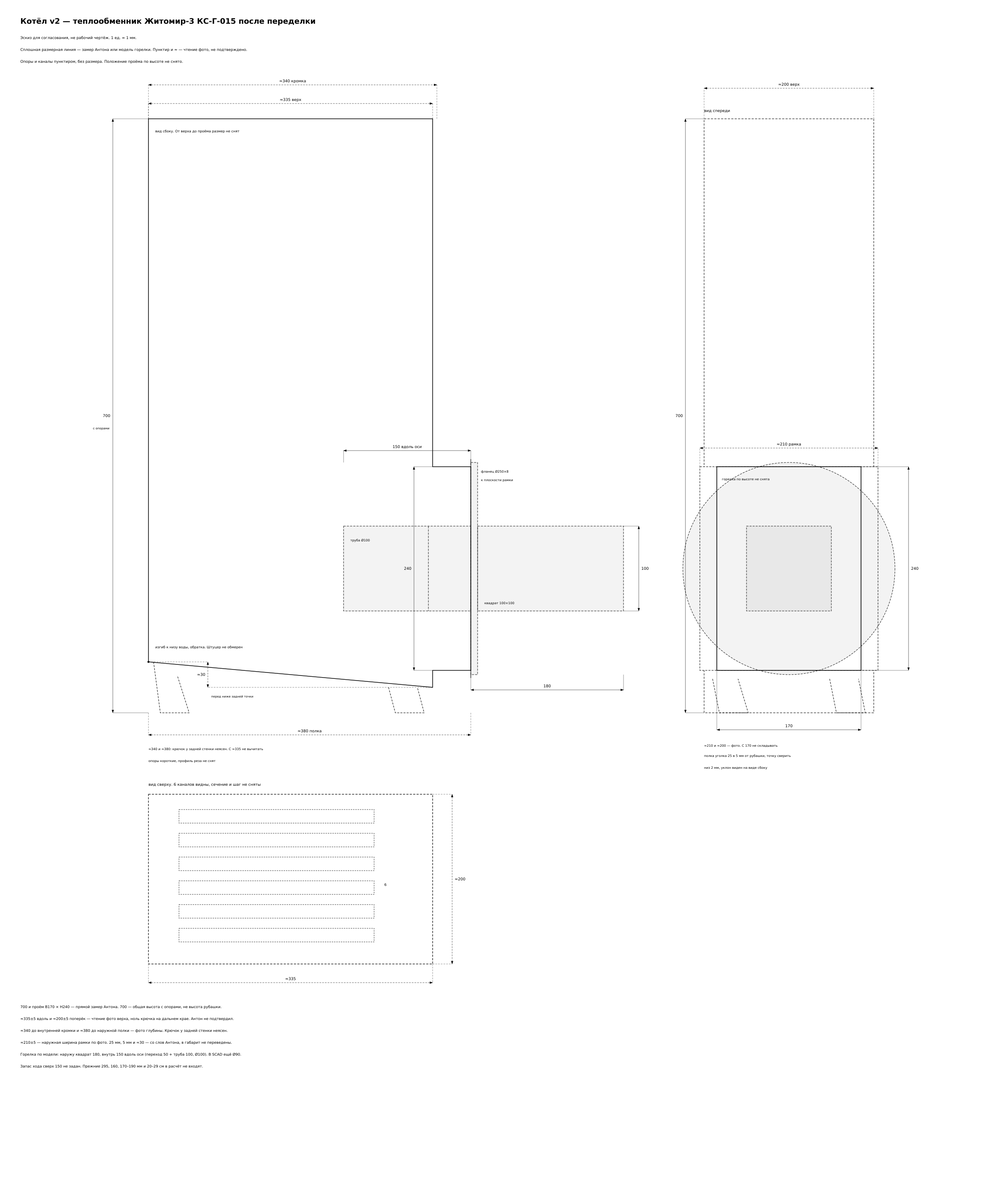
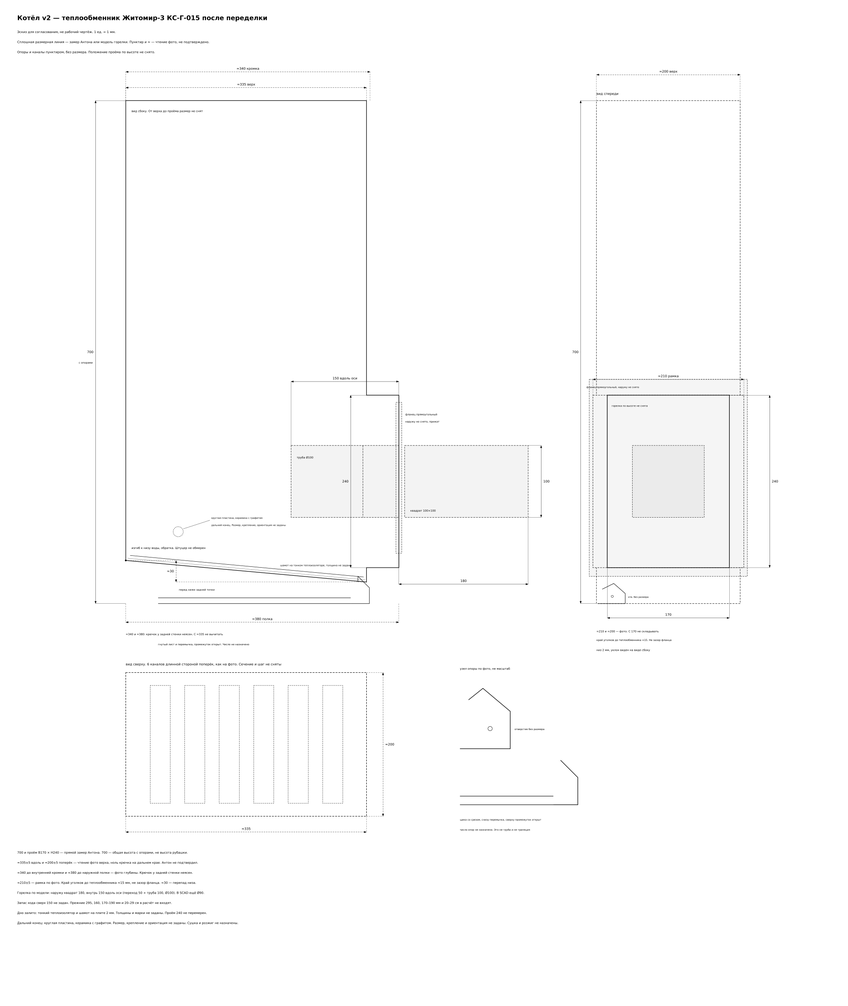
Котёл v2: опоры по фото, прямоугольный фланец, шамот и пластина.

diff --git a/blueprints/burner/README.md b/blueprints/burner/README.md
@@ -105,9 +105,11 @@
 
 Актуальный вид переда: [фото](./photos/котел-перед.jpg), [аннотация SVG](./photos/котел-перед.svg), [PNG](./photos/котел-перед.png), [PDF](./photos/котел-перед.pdf). Это вставленная горелка под углом, не обмер. Два передних кадра без прижимов, рабочая ориентация: [сторона а](./photos/котел-сборка-без-прижимов-а.jpg), [сторона б](./photos/котел-сборка-без-прижимов-б.jpg). Это раньше крупного кадра с прижимами. Прежние фото: [котел-1](./photos/котел-1.jpg), [котел-2](./photos/котел-2.jpg). Таблица рулетки: [обмеры-котла-v2.md](./обмеры-котла-v2.md). Эскиз вида сбоку в стиле размерного листа горелки: [котел-v2-эскиз.svg](./котел-v2-эскиз.svg), превью [PNG](./котел-v2-эскиз.png). Горелка пунктиром в масштабе модели, фланец на плоскости рамки. На эскизе в масштабе общая высота 700 мм и проём в свету 170×240 мм. Глубина и верх только со знаком ≈. Это не рабочий чертёж. Лист [котел-житомир-015.svg](./котел-житомир-015.svg) и [котел-каркас-контур.svg](./photos/котел-каркас-контур.svg) устарели: корпус там отрывался от каркаса, масштаб горелки был другой. Это не рабочие чертежи. Замеры в тексте ниже остаются заметками, на кадр не наложены. Промежуточная сварка каркаса, теплообменник перевёрнут: [фото](./photos/котел-каркас-перевернут.jpg), [аннотация](./photos/котел-каркас-перевернут.svg), [та же фотография в рабочей ориентации](./photos/котел-каркас-рабочая.jpg), [контур видимого](./photos/котел-каркас-контур.svg). Это не сборка с горелкой. Струбцина и стол не части котла.
 
-Крышка **2 мм**: задний изгиб оригинала, сразу перед опорами, приварен к самой нижней части водяной рубашки, где вход холодной воды. Передняя часть ниже этого изгиба примерно на **30 мм** (со слов Антона). Длина ската не снята, угол не строится. Боковины приварены к рубашке. Рама проёма — уголок **25 мм**, в свету **170×240**. Низ и зад усилены тем же уголком. Ножки родные, спилены под углом, котёл стоит ровно. Передний проём в свету: **B = 170 мм**, **H = 240 мм** (прямой замер Антона), это ширина внутренней части. Общая высота с опорами **700 мм**, по фото ножек, не высота одной рубашки. По фото и не подтверждено Антоном: верх ≈335±5 вдоль и ≈200±5 поперёк; глубина ≈340 до внутренней кромки и ≈380 до наружной полки (крючок сзади неясен); наружная рамка ≈210±5. Эти числа не вычитать. Прежние 295 мм, 170–190 мм и 20–29 см — ошибка шкалы. Полки наружу: верх вверх, низ вниз, бока в стороны. Размер уголка этого проёма не снят. Полка уголка **25 мм** стоит в **5 мм** от теплообменника. От какой грани полки и от какой поверхности рубашки меряны эти 5 мм, не сказано: на чертеже точка отсчёта помечена как требующая сверки. В ширину или высоту корпуса 25 мм и 5 мм не переводятся. Номер уголка переднего проёма по-прежнему не снят. Для рабочего размерного чертежа данных не хватает.
+Крышка **2 мм**: задний изгиб оригинала, сразу перед опорами, приварен к самой нижней части водяной рубашки, где вход холодной воды. Передняя часть ниже этого изгиба примерно на **30 мм** (со слов Антона). Длина ската не снята, угол не строится. Боковины приварены к рубашке. Рама проёма — уголок **25 мм**, в свету **170×240**. Низ и зад усилены тем же уголком. Ножки родные, спилены под углом, котёл стоит ровно. Передний проём в свету: **B = 170 мм**, **H = 240 мм** (прямой замер Антона), это ширина внутренней части. Общая высота с опорами **700 мм**, по фото ножек, не высота одной рубашки. По фото и не подтверждено Антоном: верх ≈335±5 вдоль и ≈200±5 поперёк; глубина ≈340 до внутренней кромки и ≈380 до наружной полки (крючок сзади неясен); наружная рамка ≈210±5. Эти числа не вычитать. Прежние 295 мм, 170–190 мм и 20–29 см — ошибка шкалы. Полки наружу: верх вверх, низ вниз, бока в стороны. Размер уголка этого проёма не снят. Край уголков до теплообменника около **15 мм** (уточнение Антона по крючку у рамки). Это не зазор между фланцем и рамкой: фланец к рамке прижат. В ширину корпуса 15 мм не переводится. Номер уголка переднего проёма по-прежнему не снят. Для рабочего размерного чертежа данных не хватает.
 
-Плоскость прижима фланца горелки совпадает с плоскостью уголковой рамки, без добавленного монтажного зазора. По модели [горизонталка.scad](./горизонталка.scad) эта плоскость — торец z = 0: квадрат **100×100** длиной **180 мм** лежит снаружи (z от 0 до −180), переход **50 мм** и круглая труба длиной **100 мм** уходят внутрь. Итого от рамки наружу **180 мм**, внутрь **150 мм**. На листе [горизонталка_номера.svg](./горизонталка_номера.svg) вставка v2: квадрат 100×100 и труба **Ø100**; в SCAD диаметр круглой трубы ещё Ø90, длина не переподписана. **176 мм** на [горизонталка_размеры.svg](./горизонталка_размеры.svg) — развёртка внутреннего профиля, не длина горелки. Фланец модели Ø250×8 мм сидит на этой же плоскости и в проём 170×240 не проходит, поэтому упирается в рамку. Ход извлечения по оси — не меньше заходящих **150 мм**. Технологический запас сверх этого не задан числом. Шнур, если он есть, имеет неизвестную толщину и не отменяет металлическую глубину вставки.
+Низ уже залит: на плиту 2 мм лёг тонкий теплоизолятор и слой шамотной смеси. Толщины, марка смеси и тип изолятора не названы. Чистая высота проёма 240 мм после заливки не перемерена. В дальнем конце камеры поставлена круглая пластина из керамики с графитом. Её размер, толщина, крепление, ориентация и назначение не заданы; на тёмном дальнем крае фото это не читается. Это не проверенный жаровой экран. Сушка и допуск к розжигу не назначены. Фото этой стадии: [футеровка дна](./photos/футеровка-дно.jpg). Более ранние кадры котла сняты без этой заливки.
+
+Плоскость прижима фланца горелки совпадает с плоскостью уголковой рамки, без добавленного монтажного зазора. По модели [горизонталка.scad](./горизонталка.scad) эта плоскость — торец z = 0: квадрат **100×100** длиной **180 мм** лежит снаружи (z от 0 до −180), переход **50 мм** и круглая труба длиной **100 мм** уходят внутрь. Итого от рамки наружу **180 мм**, внутрь **150 мм**. На листе [горизонталка_номера.svg](./горизонталка_номера.svg) вставка v2: квадрат 100×100 и труба **Ø100**; в SCAD диаметр круглой трубы ещё Ø90, длина не переподписана. **176 мм** на [горизонталка_размеры.svg](./горизонталка_размеры.svg) — развёртка внутреннего профиля, не длина горелки. Крепление переделано: фланец теперь прямоугольный и прижат к рамке. Наружные размеры нового фланца не заданы, 170×240 — это чистый проём, не фланец. Прежний круг Ø250×8 в модели горелки к этой посадке не относится. Ход извлечения по оси — не меньше заходящих **150 мм**. Технологический запас сверх этого не задан числом. Шнур, если он есть, имеет неизвестную толщину и не отменяет металлическую глубину вставки.
 
 ### Каналы теплообменника
 
@@ -365,9 +367,9 @@
 - [x] Донор Житомир-3 КС-Г-015 куплен (22.10.2026)
 - [x] Крышка 2 мм: задний изгиб к низу воды у обратки, перед ниже примерно на 30 мм. Угол не строится. Боковины приварены
 - [x] Рама проёма: уголок 25 мм, в свету 170×240
-- [x] Полка уголка 25 мм в 5 мм от теплообменника. Точку отсчёта сверить. Габарит корпуса из этого не выведен
+- [x] Край уголков до теплообменника ≈15 мм. Не зазор фланца. В габарит корпуса не переведён
 - [x] Низ и зад усилены уголком 25 мм
-- [x] Родные ножки спилены под углом, котёл стоит ровно. На фото опоры низкие угловые, не стойки. Профиль реза не читается
+- [x] Опоры: гнутый лист, снизу перемычка, промежуток открыт, на пластине отверстие без размера. Число не назначено. Фото [перемычка](./photos/ножка-перемычка.jpg), [пластина](./photos/ножка-пластина.jpg)
 - [x] Передний проём в свету B = 170 мм, H = 240 мм. Общая высота 700 мм с опорами
 - [x] Горелка вставлена в перед, два рычажных прижима с красными рукоятками стоят ([фото](./photos/котел-перед.jpg))
 - [ ] Плита 4–6 мм, печной шнур, зазор 1–2 мм этим фото не подтверждены

diff --git a/todo.md b/todo.md
@@ -23,16 +23,18 @@
 - [ ] **[Котёл v2](blueprints/burner/README.md#котёл-v2)** — донор Житомир-3 КС-Г-015, не отдельный котёл
   - [x] Купить донора (22.10.2026)
   - [x] Крышка 2 мм: задний изгиб к низу воды у обратки, перед ниже ≈30 мм. Угол не строится. Боковины приварены. Проём 170×240 из уголка 25, низ и зад усилены
-  - [x] Полка уголка 25 мм в 5 мм от теплообменника. Точку отсчёта сверить, в габарит корпуса не переводить
+  - [x] Край уголков до теплообменника ≈15 мм. Не зазор фланца. В габарит корпуса не переводить
   - [x] Передний проём в свету B = 170 мм, H = 240 мм. Общая высота 700 мм с опорами
-  - [x] Родные ножки спилены под углом, стоит ровно. Профиль реза по фото не читается
+  - [x] Опоры по фото «Ножка»: гнутый лист, перемычка, открытый промежуток, отверстие без размера. Число не назначено
   - [x] [Вид переда с горелкой](blueprints/burner/photos/котел-перед.jpg): горелка вставлена, два рычажных прижима стоят
   - [x] [Сварка каркаса, теплообменник перевёрнут](blueprints/burner/photos/котел-каркас-перевернут.jpg): не текущая сборка
   - [ ] Плита 4–6 мм, шнур и зазор 1–2 мм на этом фото не подтверждены
   - [ ] [Эскиз](blueprints/burner/котел-v2-эскиз.svg): высота 700 и проём 170×240 в масштабе, горелка пунктиром. Глубина и верх ≈ с фото. Не рабочий чертёж
   - [ ] Опрессовка 4 атм неудачна: изгиб виден спереди, перед и зад не гнулись. Какие поверхности и остался ли изгиб — не сказано. Швы сочились, осмотр не сделан, не топить
   - [x] Шесть каналов видны сверху, сечение не снято. Турбулизатор по-прежнему нет
-  - [ ] Отбойник, огнеупор и зольный ящик — ранний план, не сделаны
+  - [x] Дно залито: тонкий теплоизолятор и шамот на плите 2 мм. Толщины и марки не заданы. Проём 240 не перемерен
+  - [x] В дальнем конце круглая пластина, керамика с графитом. Размер, крепление и ориентация не заданы. Сушка и розжиг не назначены
+  - [ ] Отбойник и зольный ящик — ранний план, не сделаны
 - [ ] **[Шкаф Котла v2](blueprints/boiler-cabinet/README.md).** Предварительно Ш около 1000, Г около 400, В около 1500 (07.11.2026), не окончательно. Котёл боком. Ход горелки по оси не меньше 150 мм от фланца до конца трубы; запас сверх этого не задан. 400 мм достаточными не считать: проём 170 мм, по фото верх ≈200 и рамка ≈210, патрубки и полки шире. [Схема](blueprints/boiler-cabinet/компоновка.svg)
 
 ## 🚰 Коммуникации и сантехника

diff --git a/blueprints/burner/обмеры-котла-v2.md b/blueprints/burner/обмеры-котла-v2.md
@@ -16,7 +16,7 @@
 | Наружная ширина рамки | наружные кромки рамки на фото | ≈210 ±5 | чтение фото. С 170 не складывать | рулетка-проем-поперек-1, рулетка-проем-поперек-2 |
 | Каналы сверху | вид сверху | 6 штук | видно. Сечение и шаг не сняты | рулетка-верх-вдоль |
 | Перепад низа | перед ниже задней точки приварки изгиба | ≈30 | со слов Антона. Угол не строится | — |
-| Полка уголка | уголок 25 мм, полка от рубашки | 25 и 5 | со слов Антона. Точку отсчёта сверить | рулетка-крюк-у-рамки |
+| Край уголков | от края уголка до теплообменника | ≈15 | слова Антона. Не зазор фланца: фланец прижат. Уголок по-прежнему 25 мм | рулетка-крюк-у-рамки |
 | Горелка от фланца | модель горизонталка, лист v2 | наружу 180, внутрь 150 вдоль оси | 150 — длина, не высота. Ø100. В SCAD ещё Ø90 | — |
 
 Вертикальные кадры ножек показывают метрику около 56–70 см. Прежнее чтение 20–29 см было смешением дюймов с сантиметрами и в расчёт не входит. Прежние 295 мм длины верха и 170–190 мм ширины верха тоже ошибка: крючок стоял на дальнем крае. Число 160 мм для проёма не использовать.
